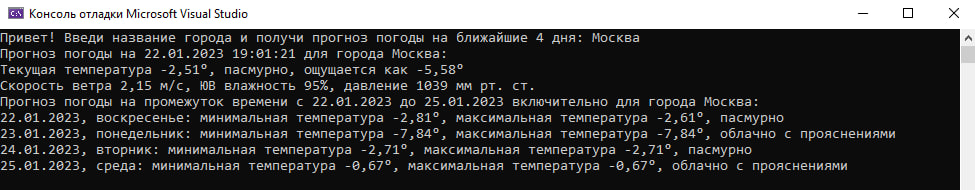
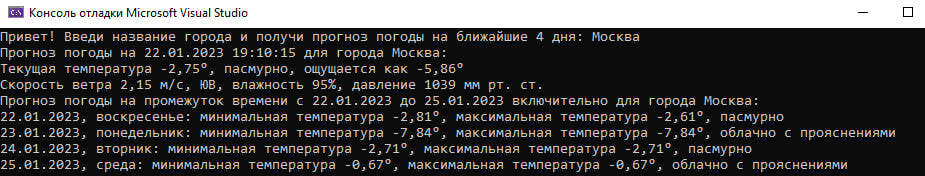
update code
(+ "," после "влажность")

diff --git a/Weather/Program.cs b/Weather/Program.cs
@@ -20,7 +20,7 @@ if (response.IsSuccessStatusCode)
     var model = JsonConvert.DeserializeObject<WeatherJson>(result);
     Console.WriteLine($"Прогноз погоды на {DateTime.Now} для города {model.name}:");
     Console.WriteLine($"Текущая температура {model.main.temp}°, {model.weather[0].description}, ощущается как {model.main.feels_like}°");
-    Console.WriteLine($"Скорость ветра {model.wind.speed} м/с, {WeatherDegToString(model.wind.deg)} влажность {model.main.humidity}%, давление {model.main.pressure} мм рт. ст.");
+    Console.WriteLine($"Скорость ветра {model.wind.speed} м/с, {WeatherDegToString(model.wind.deg)}, влажность {model.main.humidity}%, давление {model.main.pressure} мм рт. ст.");
 }
 else
 {
